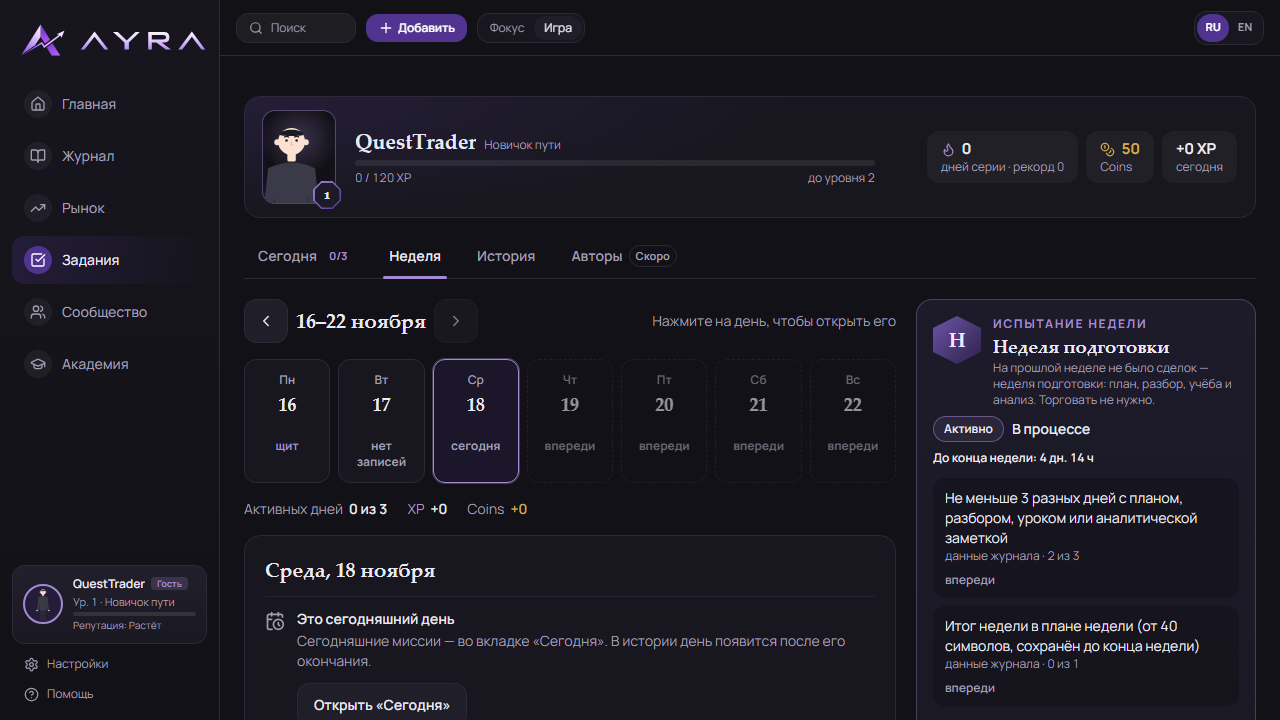
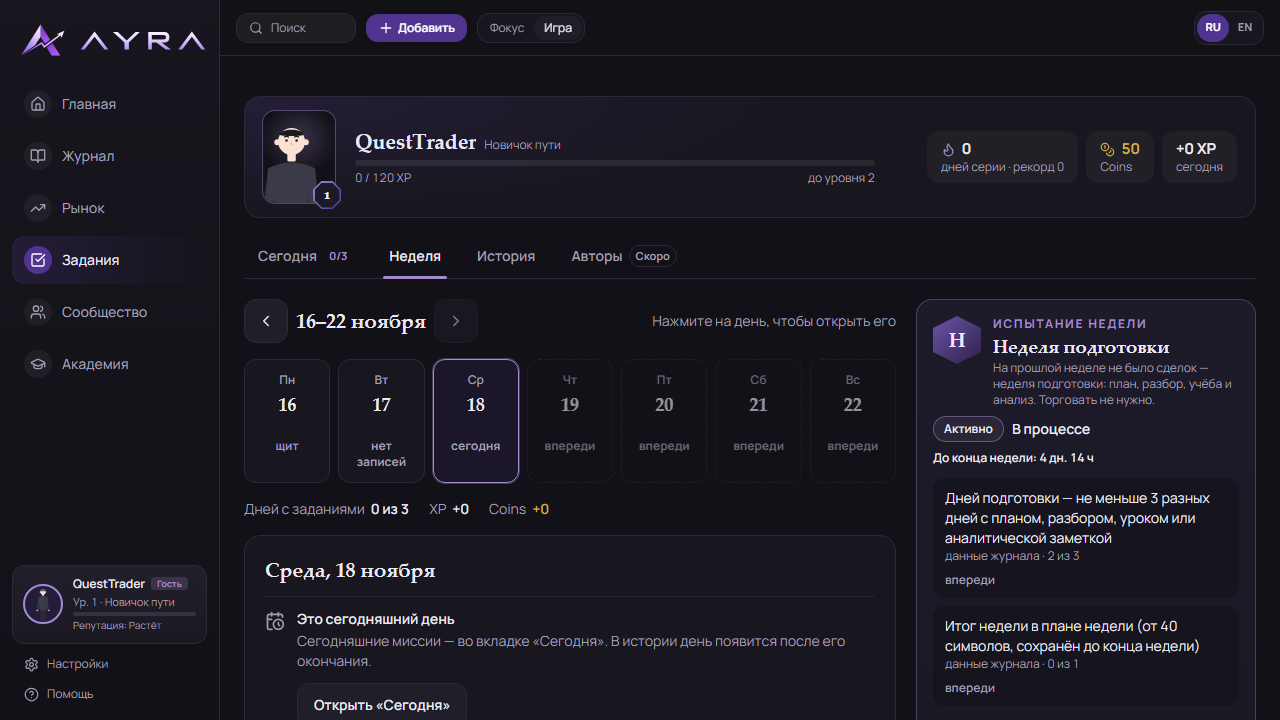
QH-7.1 review: a week summary counts only with a valid save time inside the week; distinct names for the two day counters

Changed region(s): [[0.7188, 0.6722, 0.9375, 0.7639], [0.1875, 0.7028, 0.4375, 0.7333]]

diff --git a/lib/preparation-week.test.ts b/lib/preparation-week.test.ts
@@ -1,6 +1,6 @@
 import { describe, it, expect } from "vitest";
 import { bossConditions, bossState, chooseWeekPath, closedBossResult, currentBoss, prepActiveDay, prepWeekSummary, type JournalSnapshot } from "./quest-engine";
-import { INITIAL_GAME_STATE, checkAndApplyDateResets, recordWeekBossResult, setDayMode, setWeekChallenge, type GameState } from "./game";
+import { INITIAL_GAME_STATE, checkAndApplyDateResets, migrateState, recordWeekBossResult, setDayMode, setWeekChallenge, type GameState } from "./game";
 import { challengeDays } from "./week-trophies";
 
 // QH-7.1 «Preparation week» (owner decision В-17): 3 different game days with confirmed journal work + a saved week
@@ -51,8 +51,33 @@ describe("the week summary", () => {
     expect(prepWeekSummary(snap({ weekPlans: [{ ...summary(), deletedAt: "2026-11-18T00:00:00.000Z" }] }), WEEK)).toBe(false);
     // written only after the week ended (Monday of the next week) — not the week's summary
     expect(prepWeekSummary(snap({ weekPlans: [summary(undefined, "2026-11-23T08:00:00.000Z")] }), WEEK)).toBe(false);
-    // older data without a save time: the text counts
-    expect(prepWeekSummary(snap({ weekPlans: [{ ...summary(), updatedAt: undefined }] }), WEEK)).toBe(true);
+  });
+
+  // review of #190: a summary counts only with a confirmed save time inside the week
+  it("a missing save time does not confirm the summary", () => {
+    expect(prepWeekSummary(snap({ weekPlans: [{ ...summary(), updatedAt: undefined }] }), WEEK)).toBe(false);
+    expect(prepWeekSummary(snap({ weekPlans: [{ ...summary(), updatedAt: "" }] }), WEEK)).toBe(false);
+  });
+
+  it("a broken timestamp does not confirm the summary", () => {
+    for (const bad of ["not a date", "2026-13-45T99:00:00Z", "yesterday"]) {
+      expect(prepWeekSummary(snap({ weekPlans: [{ ...summary(), updatedAt: bad }] }), WEEK)).toBe(false);
+    }
+  });
+
+  it("saved before Sunday ends (account zone) counts; saved on Monday does not — UTC and Tbilisi", () => {
+    expect(prepWeekSummary(snap({ weekPlans: [summary(undefined, "2026-11-22T23:59:00.000Z")] }), WEEK)).toBe(true);
+    expect(prepWeekSummary(snap({ weekPlans: [summary(undefined, "2026-11-23T00:01:00.000Z")] }), WEEK)).toBe(false);
+    // Tbilisi: Sunday 23:59 = 19:59 UTC; Monday 00:01 = Sunday 20:01 UTC
+    expect(prepWeekSummary(snap({ timezone: "Asia/Tbilisi", weekPlans: [summary(undefined, "2026-11-22T19:59:00.000Z")] }), WEEK)).toBe(true);
+    expect(prepWeekSummary(snap({ timezone: "Asia/Tbilisi", weekPlans: [summary(undefined, "2026-11-22T20:01:00.000Z")] }), WEEK)).toBe(false);
+  });
+
+  it("a closed week whose summary has no confirmed time is «not met» — no new trophy", () => {
+    const s = snap({ notes: [WEEK, "2026-11-18", "2026-11-21"].map((d) => note("lesson", `${d}T10:00:00.000Z`)) as never, weekPlans: [{ ...summary(), updatedAt: undefined }] });
+    const r = closedBossResult("preparationWeek", s, WEEK);
+    expect(r.state).toBe("notMet");
+    expect(r.conditions.find((c) => c.key === "weekSummary")).toMatchObject({ state: "notMet" });
   });
 });
 
@@ -105,6 +130,25 @@ describe("choosing the week's path", () => {
   it("a saved path is never replaced: a saved trading challenge stays in a week without trades, and the other way", () => {
     expect(currentBoss({ week: WEEK, boss: "respectStop" }, snap(), "2026-11-18")).toBe("respectStop");
     expect(currentBoss({ week: WEEK, boss: "preparationWeek" }, snap({ trades: [trade("t1", `${WEEK}T09:00:00.000Z`)] as never }), "2026-11-18")).toBe("preparationWeek");
+  });
+});
+
+describe("earlier confirmed wins are kept (review of #190)", () => {
+  it("a week already recorded as won keeps its result and trophy: nothing is recomputed, on load or by a new check", () => {
+    const started = checkAndApplyDateResets({ ...INITIAL_GAME_STATE, createdAt: "2026-10-01", profile: { ...INITIAL_GAME_STATE.profile, timezone: "UTC" } } as GameState, new Date(`${WEEK}T06:00:00Z`));
+    let s = setWeekChallenge(started, { week: WEEK, boss: "preparationWeek" });
+    s = checkAndApplyDateResets(s, new Date("2026-11-23T07:00:00Z"));
+    const won = { state: "met" as const, conditions: [{ key: "activeDays", source: "auto" as const, state: "met" as const, done: 3, total: 3 }, { key: "weekSummary", source: "auto" as const, state: "met" as const, done: 1, total: 1 }], at: "2026-11-23T07:05:00.000Z" };
+    s = recordWeekBossResult(s, WEEK, won, new Date("2026-11-23T07:05:00Z"));
+    // the journal today has a summary without a save time (stricter rule): a new check gives «not met», but the result stays
+    const strict = closedBossResult("preparationWeek", snap({ weekPlans: [{ ...summary(), updatedAt: undefined }] }), WEEK);
+    expect(strict.state).toBe("notMet");
+    const after = recordWeekBossResult(s, WEEK, { ...strict, at: "2026-11-23T08:00:00.000Z" }, new Date("2026-11-23T08:00:00Z"));
+    expect(after.questWeeks![0].bossResult).toEqual(won);
+    expect(after.weekTrophies!.map((t) => [t.week, t.boss, t.at])).toEqual([[WEEK, "preparationWeek", won.at]]);
+    const reloaded = migrateState(JSON.parse(JSON.stringify(after)));
+    expect(reloaded.questWeeks![0].bossResult).toEqual(won);
+    expect(reloaded.weekTrophies).toHaveLength(1);
   });
 });
 

diff --git a/e2e/quests-preparation-week.spec.ts b/e2e/quests-preparation-week.spec.ts
@@ -57,6 +57,9 @@ test.describe("Preparation week (QH-7.1)", () => {
     await page.goto("/quests?tab=week");
     const boss = page.getByTestId("weekly-boss");
     await expect(boss.getByTestId("boss-condition-activeDays")).toContainText("2 из 3");
+    // two different counters, two different names: days with completed quests (left) and preparation days (the card)
+    await expect(boss.getByTestId("boss-condition-activeDays")).toContainText("Дней подготовки");
+    await expect(page.getByTestId("week-summary")).toContainText("Дней с заданиями");
     await expect(boss.getByTestId(`challenge-day-${MONDAY}`)).toHaveAttribute("data-state", "met");
     await expect(boss.getByTestId("challenge-day-2026-11-17")).toHaveAttribute("data-state", "noTrades");
     await expect(boss.getByTestId("challenge-day-2026-11-18")).toHaveAttribute("data-state", "met");
@@ -122,7 +125,8 @@ test.describe("Preparation week (QH-7.1)", () => {
     const boss = page.getByTestId("weekly-boss");
     await expect(boss).toContainText("Preparation Week");
     await expect(boss.getByTestId("boss-overall")).toHaveText("In progress");
-    await expect(boss.getByTestId("boss-condition-activeDays")).toContainText("At least 3 different days");
+    await expect(boss.getByTestId("boss-condition-activeDays")).toContainText("Preparation days — at least 3 different days");
+    await expect(page.getByTestId("week-summary")).toContainText("Days with quests");
     await expect(boss.getByTestId("boss-victory-rule")).toContainText("Several records on one day are one active day");
   });
 

diff --git a/lib/i18n/dictionaries/ru.ts b/lib/i18n/dictionaries/ru.ts
@@ -2673,7 +2673,7 @@ export const ru = {
         hint: "Нажмите на день, чтобы открыть его",
         range: "{from}–{to}",
         dayAria: "{date}: {status}",
-        summaryActive: "Активных дней",
+        summaryActive: "Дней с заданиями",
         summaryActiveValue: "{n} из {total}",
         summaryFull: "Полных дней",
         summaryFullValue: "{n} из {total}",
@@ -3006,7 +3006,7 @@ export const ru = {
           noImpulse: "Нет меток раннего входа, овертрейдинга и мести рынку",
           withinLimit: "Сделок не больше лимита плана",
           tradesReviewed: "Все сделки недели разобраны",
-          activeDays: "Не меньше 3 разных дней с планом, разбором, уроком или аналитической заметкой",
+          activeDays: "Дней подготовки — не меньше 3 разных дней с планом, разбором, уроком или аналитической заметкой",
           weekSummary: "Итог недели в плане недели (от 40 символов, сохранён до конца недели)",
         },
         overall: {

diff --git a/lib/quest-engine.ts b/lib/quest-engine.ts
@@ -553,11 +553,15 @@ export function prepActiveDay(snap: JournalSnapshot, day: string): boolean {
   return PREP_SOURCES.some((id) => candidateSources(id, data, day).length > 0);
 }
 
-/** The week's summary in the journal's week plan: own text of at least 40 characters (as a day review), saved within the week. */
+/**
+ * The week's summary in the journal's week plan: own text of at least 40 characters (as a day review), saved within the
+ * week. The save time must be known: without a valid one it is not confirmed (no new trophy from an unknown date).
+ * Results already recorded for earlier weeks are never recomputed (withBossResult), so their trophies stay.
+ */
 export function prepWeekSummary(snap: JournalSnapshot, weekStart: string): boolean {
   const w = alive(snap.weekPlans).find((x) => x.weekStartDate === weekStart);
   if (!w || ownText(w.summary).trim().length < MISSION_TEXT_MIN.review) return false;
-  if (!w.updatedAt || Number.isNaN(Date.parse(w.updatedAt))) return true; // a save without a time (older data): the text is what counts
+  if (!w.updatedAt || Number.isNaN(Date.parse(w.updatedAt))) return false;
   const saved = dayKeyInZone(new Date(w.updatedAt), snap.timezone);
   return saved >= weekStart && saved <= addDaysToKey(weekStart, 6);
 }

diff --git a/lib/i18n/dictionaries/en.ts b/lib/i18n/dictionaries/en.ts
@@ -2675,7 +2675,7 @@ export const en: Dictionary = {
         hint: "Tap a day to open it",
         range: "{from}–{to}",
         dayAria: "{date}: {status}",
-        summaryActive: "Active days",
+        summaryActive: "Days with quests",
         summaryActiveValue: "{n} of {total}",
         summaryFull: "Full days",
         summaryFullValue: "{n} of {total}",
@@ -3008,7 +3008,7 @@ export const en: Dictionary = {
           noImpulse: "No early-entry, overtrading or revenge tags",
           withinLimit: "No more trades than the plan's limit",
           tradesReviewed: "Every trade of the week is reviewed",
-          activeDays: "At least 3 different days with a plan, a review, a lesson or an analysis note",
+          activeDays: "Preparation days — at least 3 different days with a plan, a review, a lesson or an analysis note",
           weekSummary: "A week summary in the week plan (40+ characters, saved before the week ends)",
         },
         overall: {

diff --git a/docs/quest-hub-qh6-spec.md b/docs/quest-hub-qh6-spec.md
@@ -508,7 +508,8 @@
      - бэктест.
    - **Проверки** — те же функции, что у миссий Quest Hub (`candidateSources`): свой текст не короче минимума, не импорт, не копия, полный бэктест.
    - **Не засчитываются:** несколько записей в один день — это один активный день; одна «оценка дня» без текста; открытие страницы и нажатия кнопок.
-2. **Итог недели** в плане недели: не меньше 40 своих символов (как разбор дня), сохранён до конца недели по поясу аккаунта. Итог, впервые записанный после воскресенья, не засчитывается.
+2. **Итог недели** в плане недели: не меньше 40 своих символов (как разбор дня), сохранён до конца недели по поясу аккаунта. Время сохранения должно быть известно и корректно: без него итог не подтверждён, и нового трофея нет (замечание ревью #190). Итог, сохранённый уже после воскресенья, не засчитывается. Ранее записанные победы и их трофеи не пересчитываются.
+- **Два разных счётчика** на вкладке «Неделя»: слева «Дней с заданиями» (дни, когда выполнено хотя бы одно задание), в карточке испытания — «Дней подготовки».
 - **Победа** — оба условия к концу недели. Во время недели: «В процессе» → «Условие выполнено». Закрытая неделя без них — «Не завершено», без наказания.
 
 ### 11.3 Выбор пути
